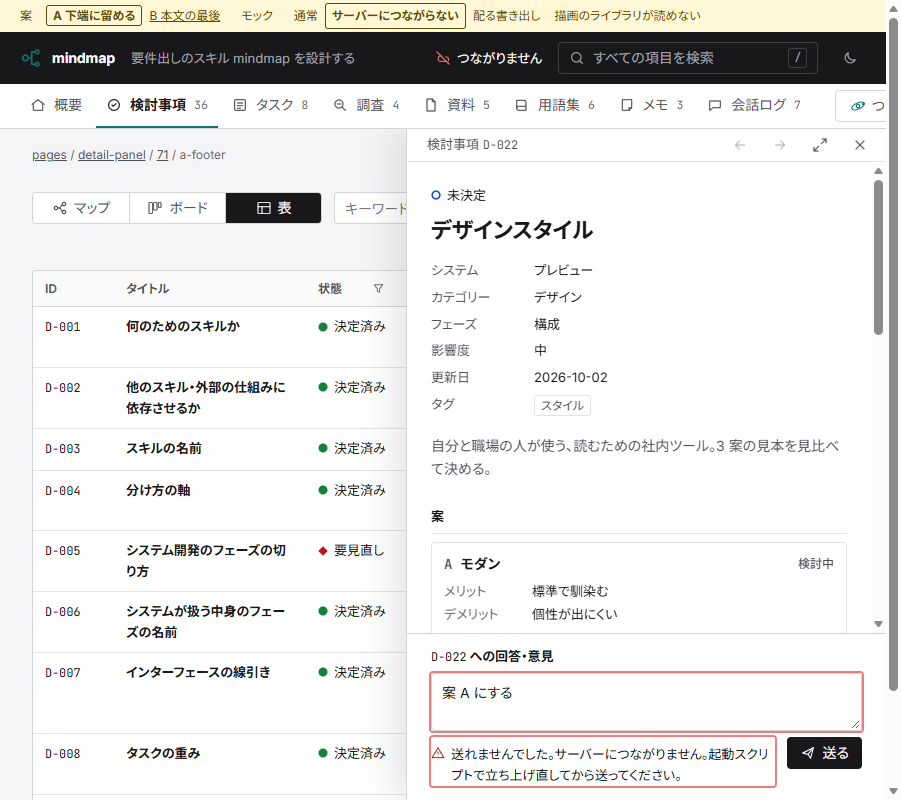
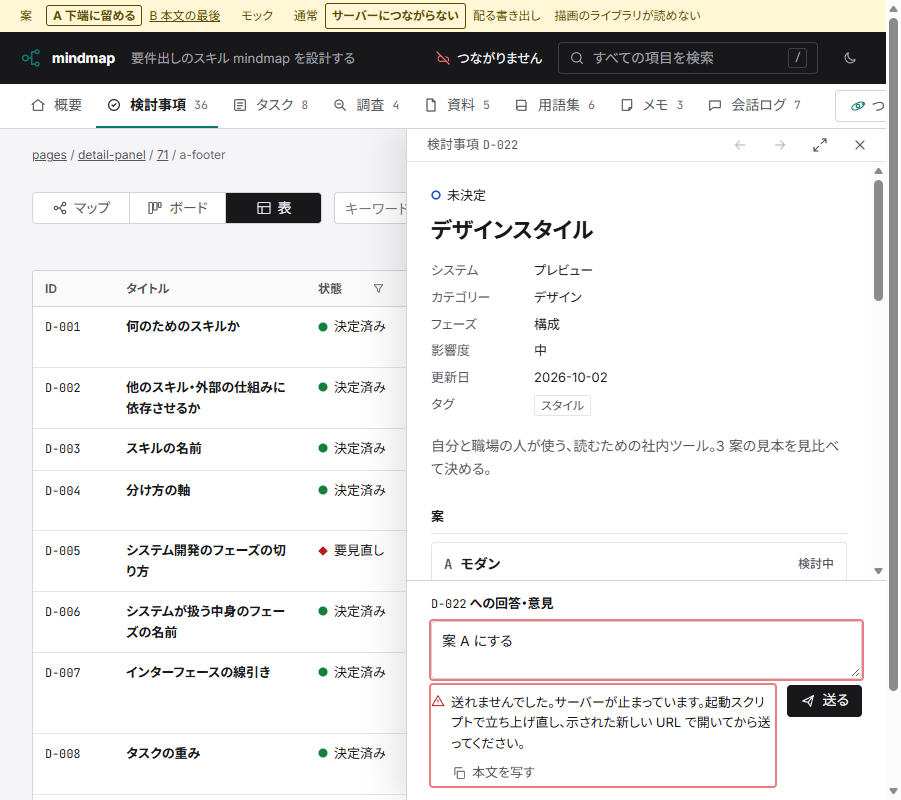
docs: 送れなかったときの文言を新しい URL で開き直す形にし、本文を写すボタンを足す

Changed region(s): [[0.4661, 0.7188, 0.9634, 1.0], [0.9634, 0.375, 0.9945, 0.4375]]

diff --git a/dev/mock/components/send-form/index.html b/dev/mock/components/send-form/index.html
@@ -114,11 +114,11 @@
     </section>
     <section class="cat-sec">
       <h2>送れなかった（エラー）</h2>
-      <p>サーバーにつながらないとき。入力した本文を残し、次に送るまで文言を消さない。</p>
+      <p>サーバーが止まっているとき。立ち上げ直すと URL が変わり、開き直した画面には入力途中の本文が引き継がれないので、本文を写すボタンを添える。入力した本文を残し、次に送るまで文言を消さない。</p>
       <div class="stage"><form class="send send-footer" novalidate onsubmit="return false">
         <label class="send-label" for="send-8"><span class="mono">D-022</span> への回答・意見</label>
         <textarea id="send-8" name="body" rows="2" class="" aria-describedby="send-8-msg">案 A にする</textarea>
-        <div class="send-row"><p class="send-msg failed" id="send-8-msg" role="status"><svg class="icon" viewBox="0 0 24 24" aria-hidden="true"><path d="M12 3 2 20h20Z"/><path d="M12 10v4M12 17h.01"/></svg><span>送れませんでした。サーバーにつながりません。起動スクリプトで立ち上げ直してから送ってください。</span></p><button class="btn primary " type="submit" title="送る（Ctrl+Enter）"><svg class="icon" viewBox="0 0 24 24" aria-hidden="true"><path d="M4 12 20 4l-4 16-4-6Z"/><path d="m12 14 8-10"/></svg>送る</button></div>
+        <div class="send-row"><p class="send-msg failed" id="send-8-msg" role="status"><svg class="icon" viewBox="0 0 24 24" aria-hidden="true"><path d="M12 3 2 20h20Z"/><path d="M12 10v4M12 17h.01"/></svg><span class="send-msg-body"><span>送れませんでした。サーバーが止まっています。起動スクリプトで立ち上げ直し、示された新しい URL で開いてから送ってください。</span><button class="btn ghost send-copy" type="button"><svg class="icon" viewBox="0 0 24 24" aria-hidden="true"><rect x="9" y="9" width="12" height="12" rx="1"/><path d="M5 15V4a1 1 0 0 1 1-1h11"/></svg>本文を写す</button></span></p><button class="btn primary " type="submit" title="送る（Ctrl+Enter）"><svg class="icon" viewBox="0 0 24 24" aria-hidden="true"><path d="M4 12 20 4l-4 16-4-6Z"/><path d="m12 14 8-10"/></svg>送る</button></div>
       </form></div>
     </section>
     <section class="cat-sec">
@@ -145,7 +145,7 @@ ID の等幅は残す。
       <div class="stage narrow"><form class="send send-footer" novalidate onsubmit="return false">
         <label class="send-label" for="send-10"><span class="mono">D-022</span> への回答・意見</label>
         <textarea id="send-10" name="body" rows="2" class="" aria-describedby="send-10-msg">案 A にする</textarea>
-        <div class="send-row"><p class="send-msg failed" id="send-10-msg" role="status"><svg class="icon" viewBox="0 0 24 24" aria-hidden="true"><path d="M12 3 2 20h20Z"/><path d="M12 10v4M12 17h.01"/></svg><span>送れませんでした。サーバーにつながりません。起動スクリプトで立ち上げ直してから送ってください。</span></p><button class="btn primary " type="submit" title="送る（Ctrl+Enter）"><svg class="icon" viewBox="0 0 24 24" aria-hidden="true"><path d="M4 12 20 4l-4 16-4-6Z"/><path d="m12 14 8-10"/></svg>送る</button></div>
+        <div class="send-row"><p class="send-msg failed" id="send-10-msg" role="status"><svg class="icon" viewBox="0 0 24 24" aria-hidden="true"><path d="M12 3 2 20h20Z"/><path d="M12 10v4M12 17h.01"/></svg><span class="send-msg-body"><span>送れませんでした。サーバーが止まっています。起動スクリプトで立ち上げ直し、示された新しい URL で開いてから送ってください。</span><button class="btn ghost send-copy" type="button"><svg class="icon" viewBox="0 0 24 24" aria-hidden="true"><rect x="9" y="9" width="12" height="12" rx="1"/><path d="M5 15V4a1 1 0 0 1 1-1h11"/></svg>本文を写す</button></span></p><button class="btn primary " type="submit" title="送る（Ctrl+Enter）"><svg class="icon" viewBox="0 0 24 24" aria-hidden="true"><path d="M4 12 20 4l-4 16-4-6Z"/><path d="m12 14 8-10"/></svg>送る</button></div>
       </form></div>
     </section>
     <section class="cat-sec">

diff --git a/dev/mock/refs/71/assets/app.js b/dev/mock/refs/71/assets/app.js
@@ -1001,7 +1001,8 @@
     sending: () => `<span class="spinner" aria-hidden="true"></span><span>送っています</span>`,
     sent: (r) => `${icon("check")}<span>送りました（${timeOf(r.at)}）。次の話し合いの最初に取り込みます。</span>`,
     empty: () => `${icon("alert")}<span>回答・意見を入れてから送ってください。</span>`,
-    failed: () => `${icon("alert")}<span>送れませんでした。サーバーにつながりません。起動スクリプトで立ち上げ直してから送ってください。</span>`,
+    // 送れなかった: 開き直すと入力途中の本文が消える（新しい URL は別のオリジン）ので、本文を写すボタンを添える
+    failed: () => `${icon("alert")}<span class="send-msg-body"><span>送れませんでした。サーバーが止まっています。起動スクリプトで立ち上げ直し、示された新しい URL で開いてから送ってください。</span><button class="btn ghost send-copy" type="button" data-act="sendcopy">${icon("copy")}本文を写す</button></span>`,
   };
   const sendFormOf = (id) => document.querySelector(`.send[data-id="${CSS.escape(id)}"]`);
   // 送った結果を、描き直さずに入力の近くへ出す（読み上げの領域を作り直さない）
@@ -1306,6 +1307,11 @@
       case "vclose": closeFullViewer(); break;
       case "sim": state.sim = el.dataset.sim; layoutCache.clear(); lastScreen = ""; history.replaceState(null, "", hashOf()); render(); break;
       case "dgraw": { const f = el.closest(".diagram"), on = el.getAttribute("aria-pressed") !== "true"; el.setAttribute("aria-pressed", on); f.querySelector(".mermaid").hidden = on; f.querySelector(".dg-raw").hidden = !on; break; }
+      case "sendcopy": {
+        const ta = el.closest(".send").querySelector("textarea");
+        navigator.clipboard?.writeText(ta.value).then(() => { el.innerHTML = `${icon("check")}写しました`; setTimeout(() => (el.innerHTML = `${icon("copy")}本文を写す`), 1400); });
+        break;
+      }
       case "dgcopy": { const f = el.closest(".diagram"); navigator.clipboard?.writeText(f.querySelector(".dg-raw").textContent).then(() => { el.innerHTML = icon("check"); setTimeout(() => (el.innerHTML = icon("copy")), 1400); }); break; }
       case "dgzoom": openViewer(el.closest(".diagram").querySelector(".mermaid svg")); break;
       case "vzoom": viewerZoom(el.dataset.z); break;

diff --git a/dev/mock/refs/71/assets/style.css b/dev/mock/refs/71/assets/style.css
@@ -63,3 +63,16 @@ dialog.full:has(.full-viewer) .send { display: none; }
 @media (max-width: 1100px) { .conn .conn-long { display: none; } .conn .conn-short { display: inline; } }
 /* 最も狭い幅（360px 以下）の接続の状態: 印だけを見せてサイト名と重ねない。文言は読み上げにだけ残す */
 @media (max-width: 360px) { .conn .conn-short { position: absolute; width: 1px; height: 1px; overflow: hidden; clip-path: inset(50%); white-space: nowrap; } .conn svg.icon { width: 18px; height: 18px; } }
+
+/* ===== 送れなかったときの本文を写すボタン ===== */
+
+/* 送れなかった旨と本文を写すボタン: 文言の下にボタンを置く */
+.send-msg-body { display: grid; justify-items: start; gap: 4px; }
+/* 本文を写すボタン: 送るボタンより目立たせず、文言の頭に揃える */
+.send-copy { height: 28px; padding: 0 8px; margin-left: -8px; font-size: var(--fs-small); }
+/* 本文を写すボタンの印: 状態の色を継がず、ボタンの文字の色にする */
+.send-msg .send-copy svg.icon { color: currentColor; }
+/* 送信の入力の幅で結果の置き方を変えるため、入力の幅を問い合わせの基準にする */
+.send { container-type: inline-size; }
+/* 入力の幅が狭いとき（360px 以下）: 送るボタンを右に置いたまま、結果を下の行に幅いっぱいで出す */
+@container (max-width: 360px) { .send-row { flex-wrap: wrap; justify-content: flex-end; } .send-row .send-msg { order: 2; flex-basis: 100%; min-height: 0; padding-top: 0; } .send-row .send-msg:empty { display: none; } }
